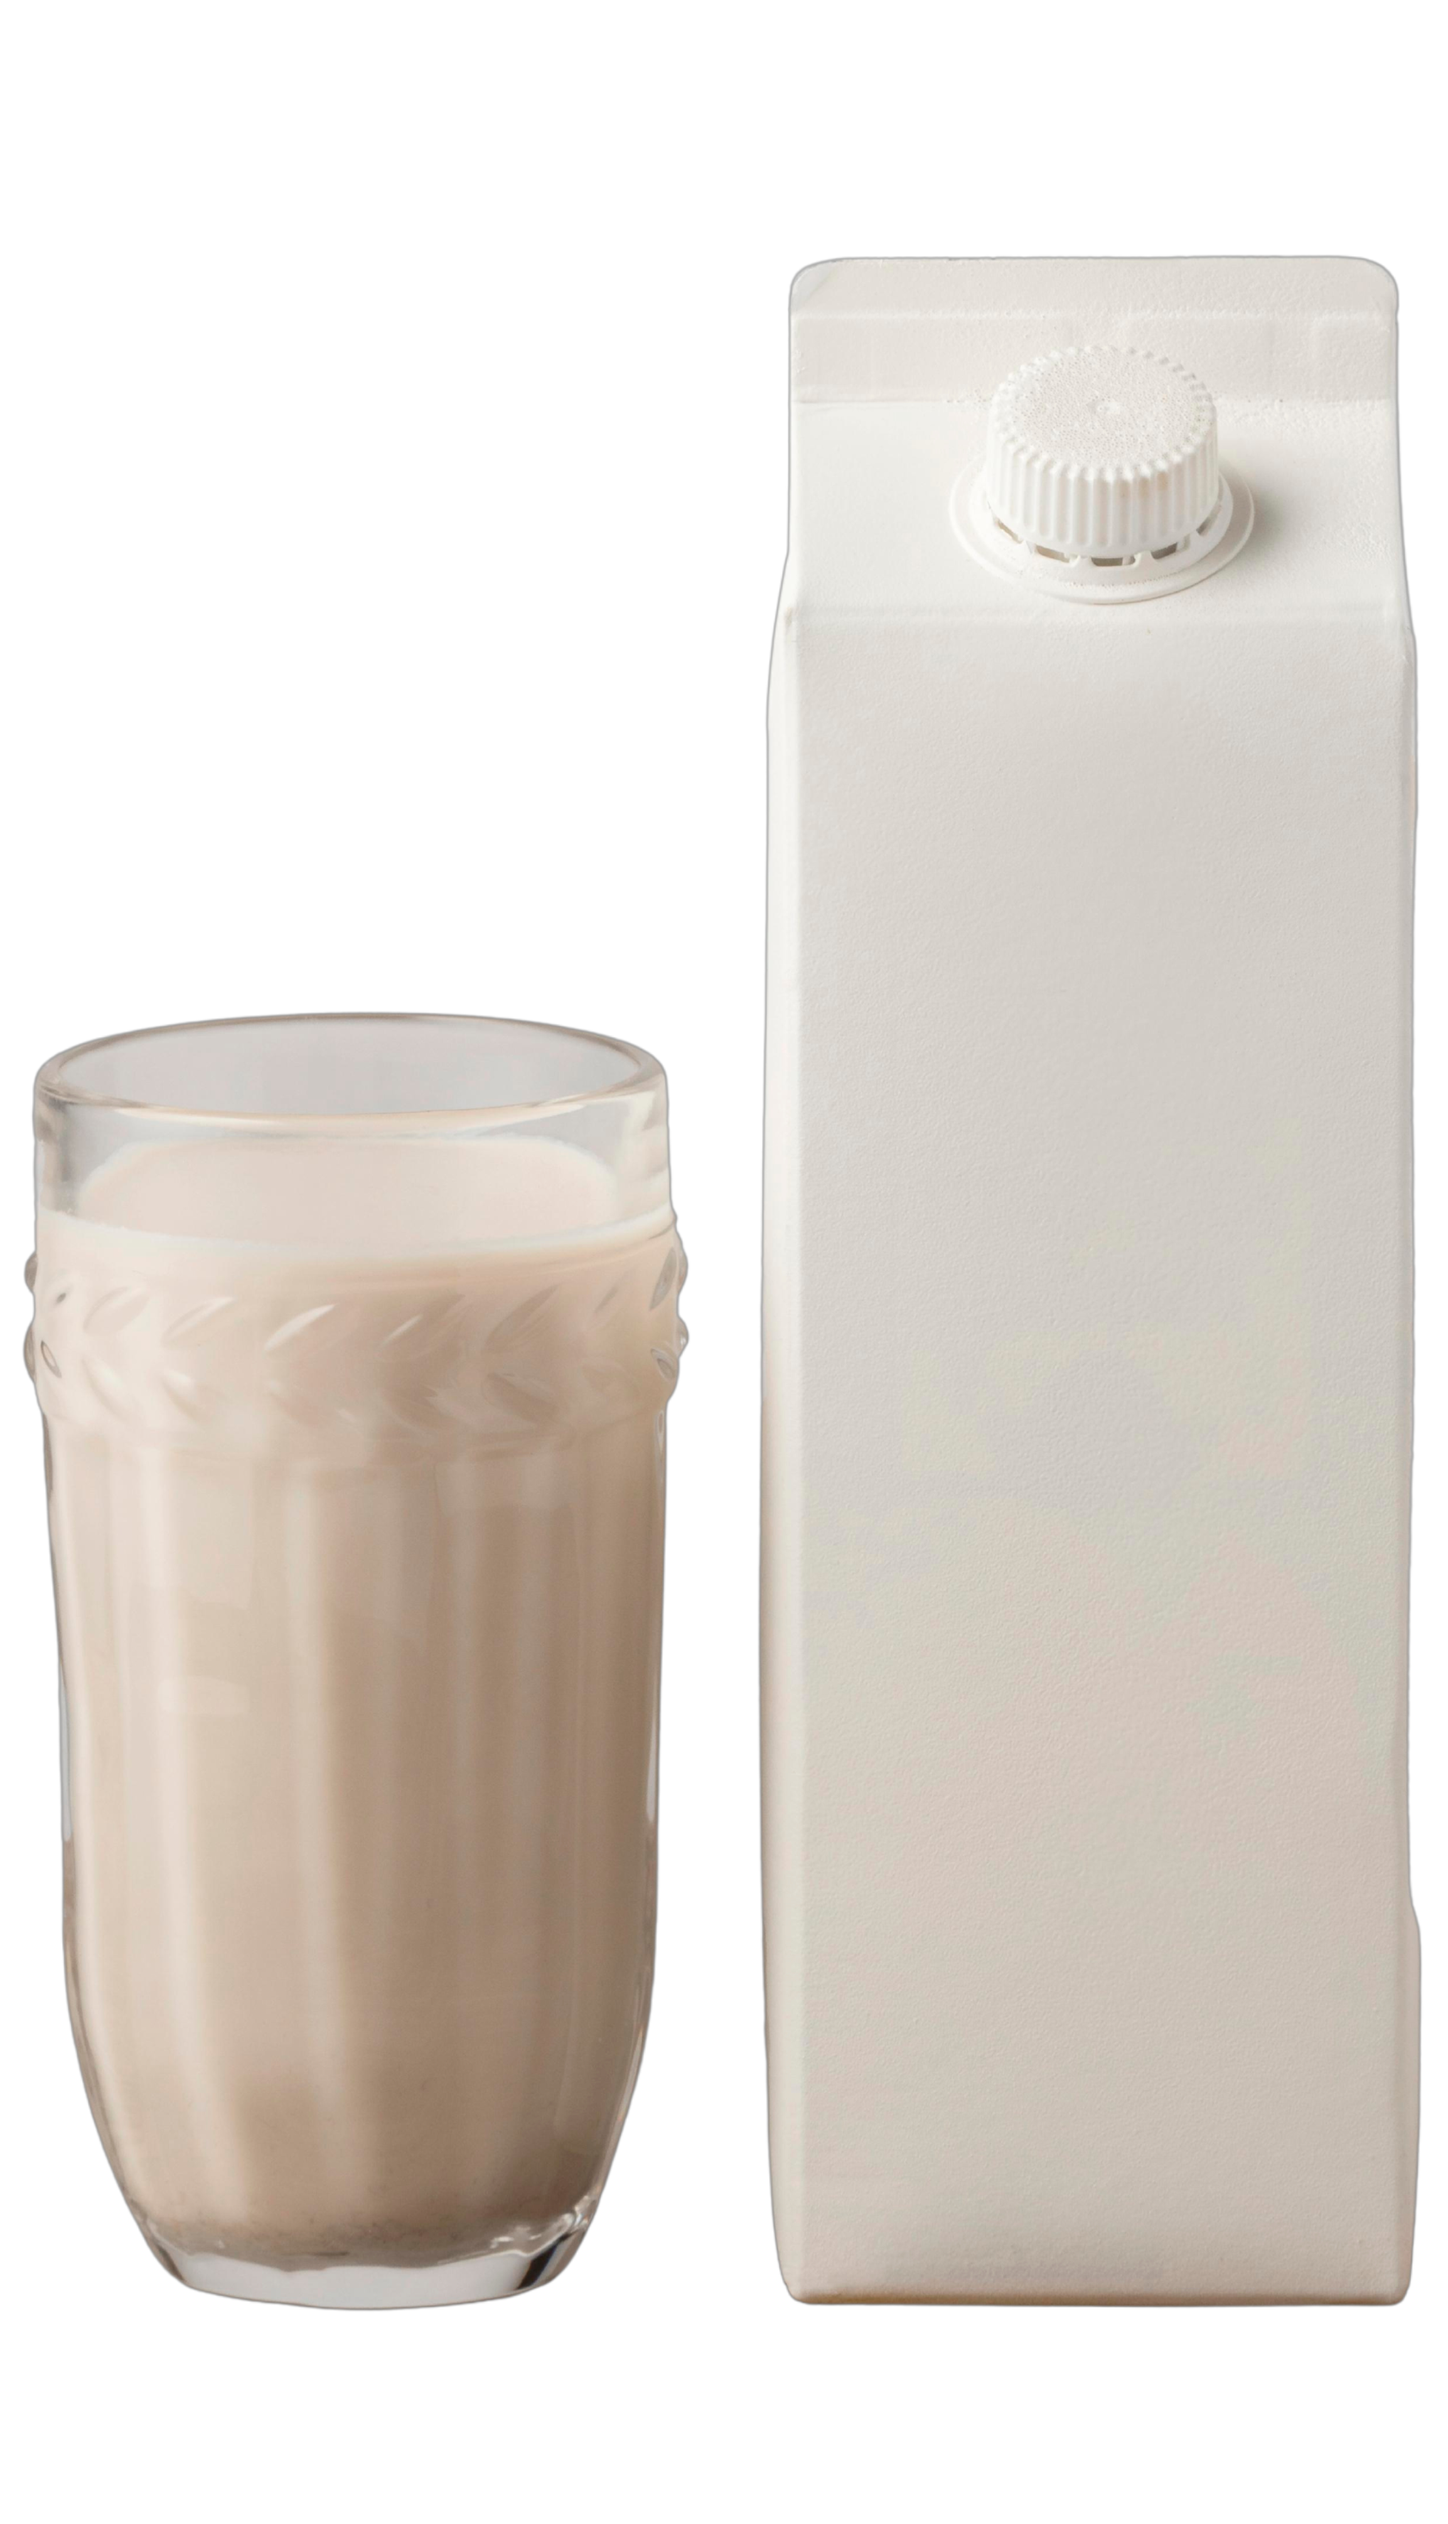
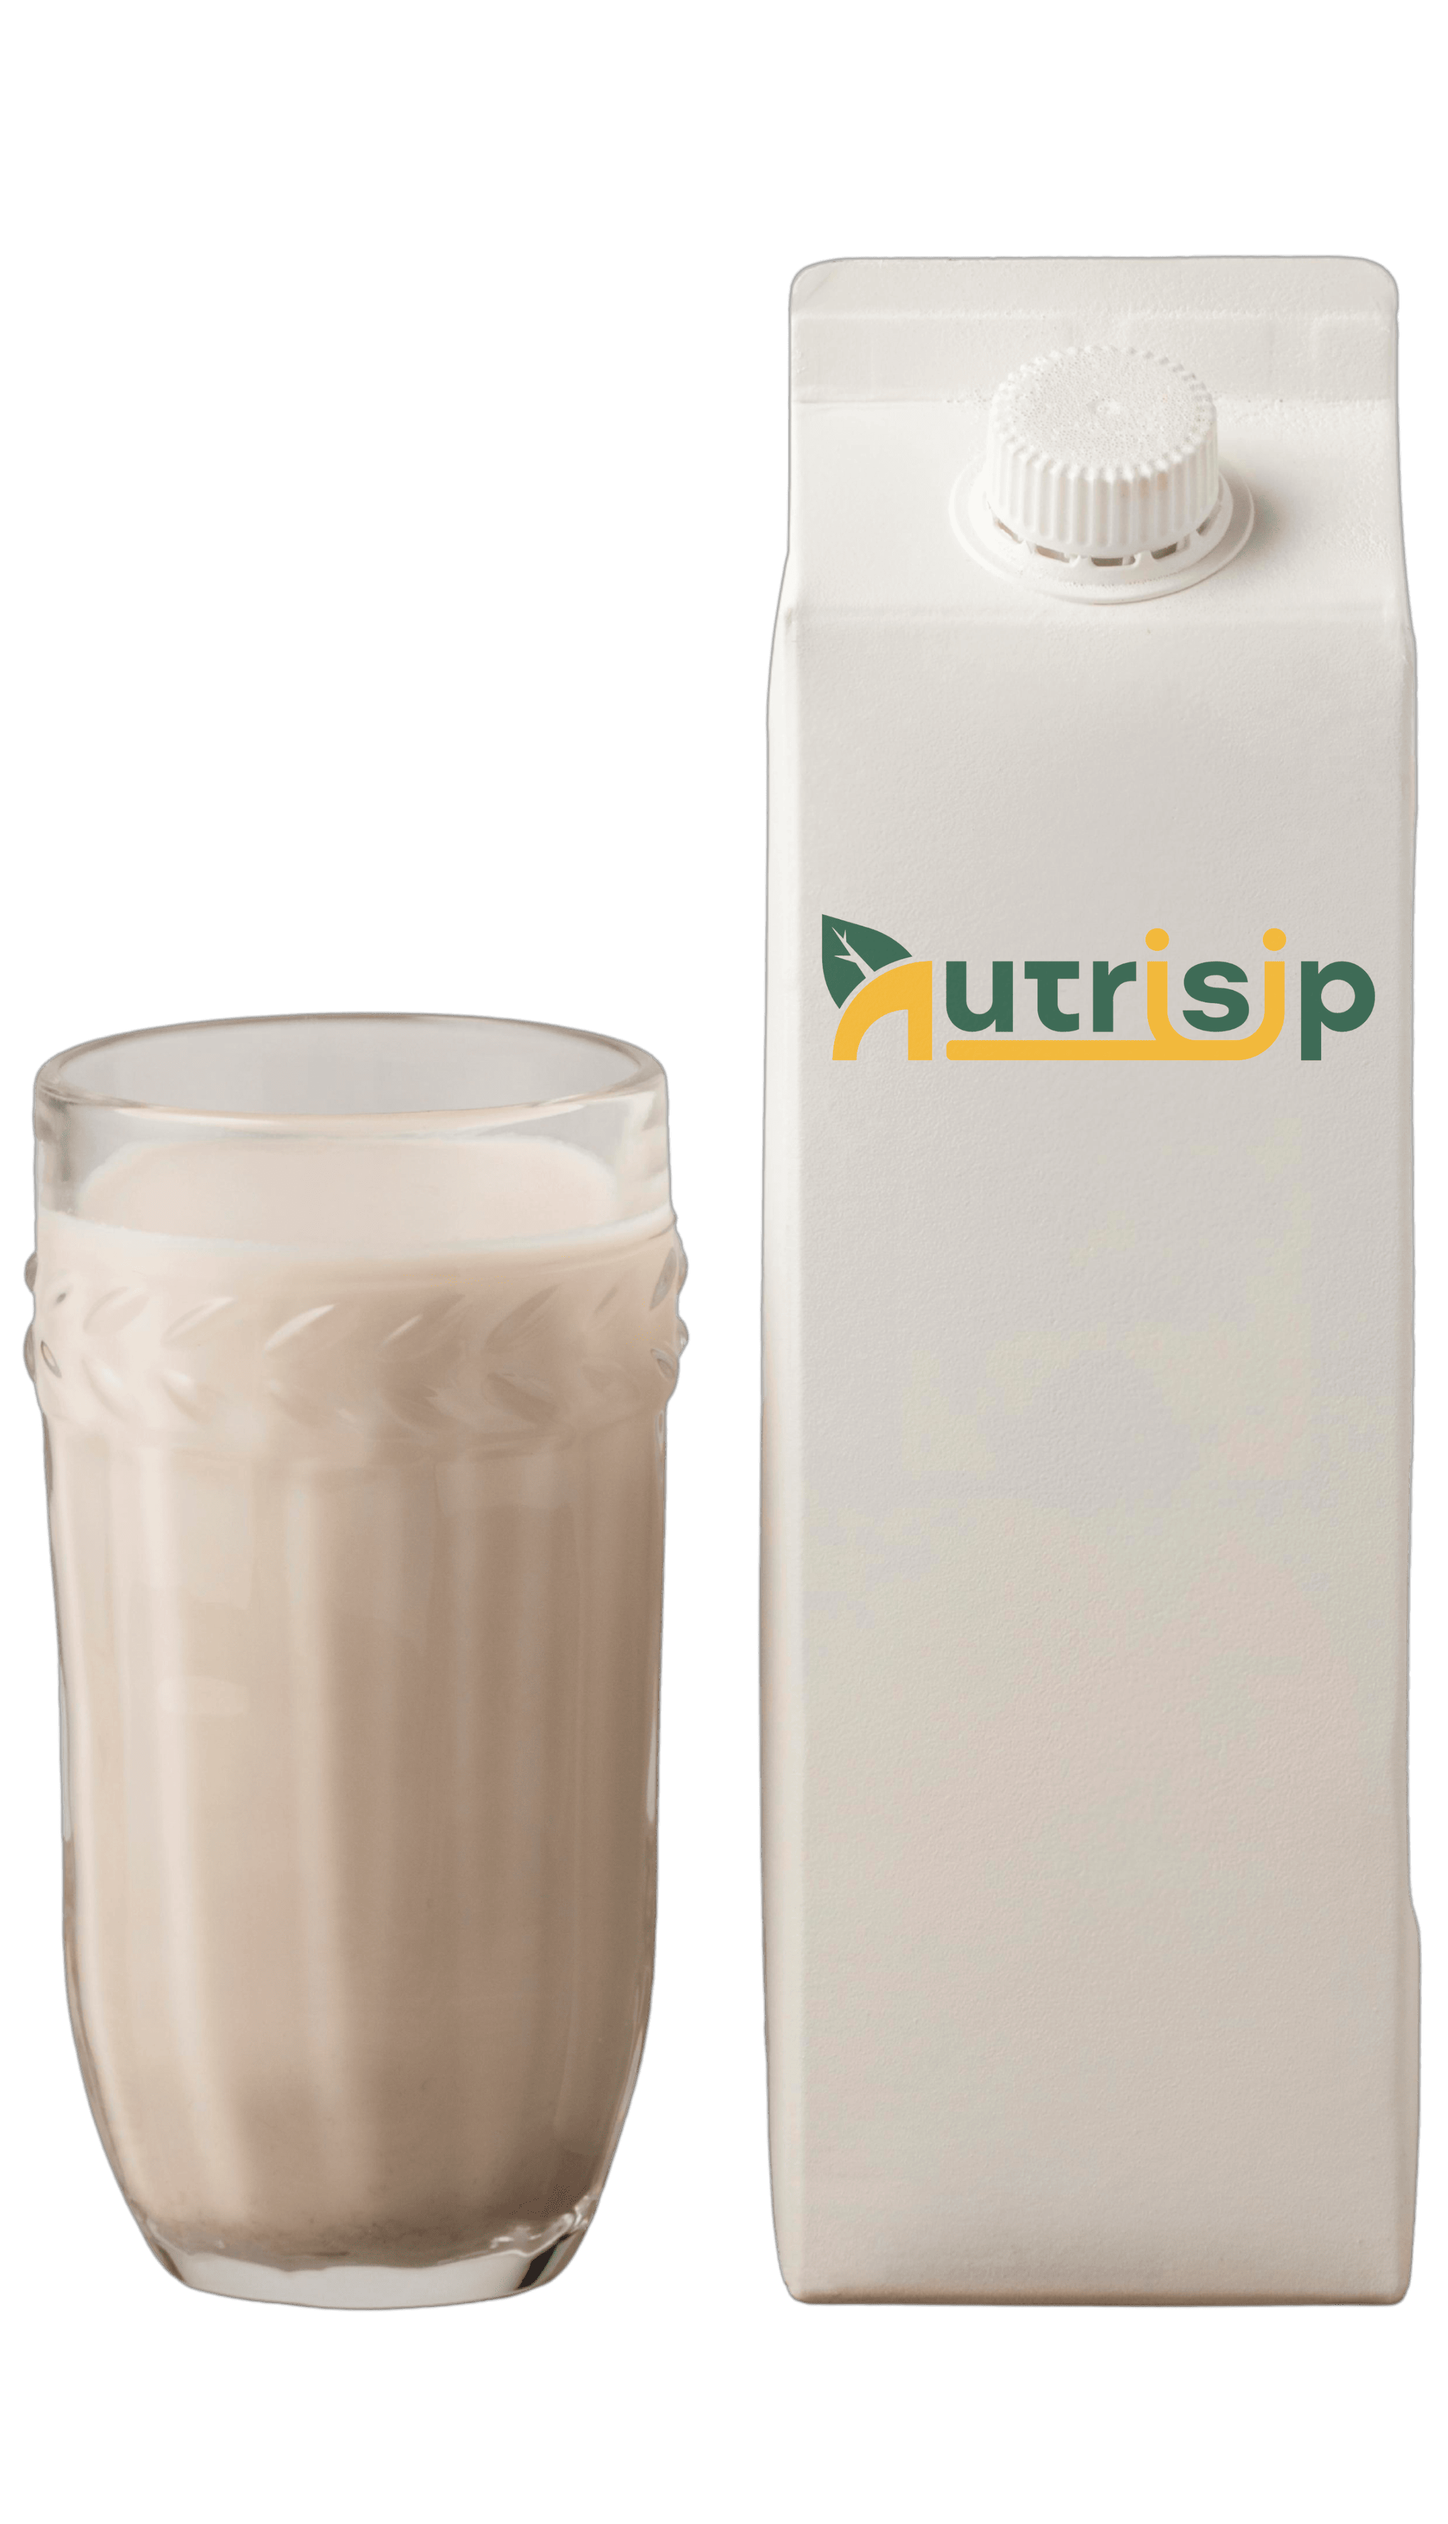
fix benefit card and redesign image

Changed region(s): [[0.5618, 0.342, 0.9675, 0.4352]]

diff --git a/index.html b/index.html
@@ -222,19 +222,19 @@
 
     <!-- Benefits  -->
     <div class="container-fluid" id="benefit">
-      <h3 class="text-center text-dark fw-semibold py-0 py-lg-5" id="reinforcement-stmt">Why NutriSip?</h3>
-      <div class="row gy-4">
-        <div class="col-lg-4 d-flex justify-content-lg-end justify-content-center align-items-center">
+      <h3 class="text-center text-dark fw-semibold mb-0 pt-3 py-lg-5" id="reinforcement-stmt">Why NutriSip?</h3>
+      <div class="row gy-3">
+        <div class="col-lg-4 mt-0 d-flex justify-content-lg-end justify-content-center align-items-center">
           <img src="./img/milks.png" class="juice-combine" alt="red juice" width="300">
         </div>
         <div class="col-lg-8 d-flex justify-content-center align-items-center px-5">
-          <div class="row gy-3">
+          <div class="row gy-2">
             <div class="col-12">
               <div class="card align-items-center d-flex justify-content-center rounded-4 border-0">
-                <div class="card-body p-4">
-                  <div class="row gy-3 text-center">
+                <div class="card-body pb-1 pt-3">
+                  <div class="row gy-3 text-center d-flex justify-content-center align-items-center">
                     <div class="row align-items-center">
-                      <div class="col-lg-2">
+                      <div class="col-lg-2 mt-2">
                         <i class="fa-solid fa-heart-circle-check fs-1"></i>
                       </div>
                       <div class="col-lg-10 text-lg-start text-center">
@@ -243,7 +243,7 @@
                             <h5 class="card-title fw-semibold">A Happy Digestive Experience</h5>
                           </div>
                           <div class="col-12">
-                            <p class="card-subtitle fs-6 fw-medium">NutriSip provide a tasty lactose-free alternative without compromising your values.</p>
+                            <p class="card-subtitle fs-6 fw-medium text-center">NutriSip provide a tasty lactose-free alternative without compromising your values.</p>
                           </div>
                         </div>
                       </div>
@@ -254,10 +254,10 @@
             </div>
             <div class="col-12">
               <div class="card align-items-center d-flex justify-content-center rounded-4 border-0">
-                <div class="card-body p-4">
-                  <div class="row gy-3 text-center">
+                <div class="card-body pb-1 pt-3">
+                  <div class="row gy-3 text-center d-flex justify-content-center align-items-center">
                     <div class="row align-items-center">
-                      <div class="col-lg-2">
+                      <div class="col-lg-2 mt-2">
                         <i class="fa-solid fa-hand-holding-medical fs-1"></i>
                       </div>
                       <div class="col-lg-10 text-lg-start text-center">
@@ -266,7 +266,7 @@
                             <h5 class="card-title fw-semibold">Nutrient-Rich Goodness</h5>
                           </div>
                           <div class="col-12">
-                            <p class="card-subtitle fs-6 fw-medium">Packed with essential nutrients, NutriSip offer a wholesome alternative for those looking to boost their nutritional intake without dairy.</p>
+                            <p class="card-subtitle fs-6 fw-medium text-center">Packed with essential nutrients, NutriSip offer a wholesome alternative for those looking to boost their nutritional intake without dairy.</p>
                           </div>
                         </div>
                       </div>
@@ -277,10 +277,10 @@
             </div>
             <div class="col-12">
               <div class="card align-items-center d-flex justify-content-center rounded-4 border-0">
-                <div class="card-body p-4">
-                  <div class="row gy-3 text-center">
+                <div class="card-body p-4 pb-1 pt-3">
+                  <div class="row gy-3 text-center d-flex justify-content-center align-items-center">
                     <div class="row align-items-center">
-                      <div class="col-lg-2">
+                      <div class="col-lg-2 mt-2">
                         <i class="fa-solid fa-pills fs-1"></i>
                       </div>
                       <div class="col-lg-10 text-lg-start text-center">
@@ -289,7 +289,7 @@
                             <h5 class="card-title fw-semibold">No Artificial Nonsense</h5>
                           </div>
                           <div class="col-12">
-                            <p class="card-subtitle fs-6 fw-medium">We believe in keeping it real. No artificial additives, preservatives, or mystery ingredients – just pure, plant-based goodness.</p>
+                            <p class="card-subtitle fs-6 fw-medium text-center">We believe in keeping it real. No artificial additives, preservatives, or mystery ingredients – just pure, plant-based goodness.</p>
                           </div>
                         </div>
                       </div>
@@ -300,10 +300,10 @@
             </div>
             <div class="col-12">
               <div class="card align-items-center d-flex justify-content-center rounded-4 border-0">
-                <div class="card-body p-4">
-                  <div class="row gy-3 text-center">
+                <div class="card-body pb-1 pt-3">
+                  <div class="row gy-3 text-center d-flex justify-content-center align-items-center">
                     <div class="row align-items-center">
-                      <div class="col-lg-2">
+                      <div class="col-lg-2 mt-2">
                         <i class="fa-solid fa-recycle fs-1"></i>
                       </div>
                       <div class="col-lg-10 text-lg-start text-center">
@@ -312,7 +312,7 @@
                             <h5 class="card-title fw-semibold">Supporting a Sustainable Lifestyle and Responsible Environmental Practices</h5>
                           </div>
                           <div class="col-12">
-                            <p class="card-subtitle fs-6 fw-medium">NutriSip commitment to sustainability extends from sourcing quality ingredients to environmentally friendly packaging.</p>
+                            <p class="card-subtitle fs-6 fw-medium text-center">NutriSip commitment to sustainability extends from sourcing quality ingredients to environmentally friendly packaging.</p>
                           </div>
                         </div>
                       </div>
